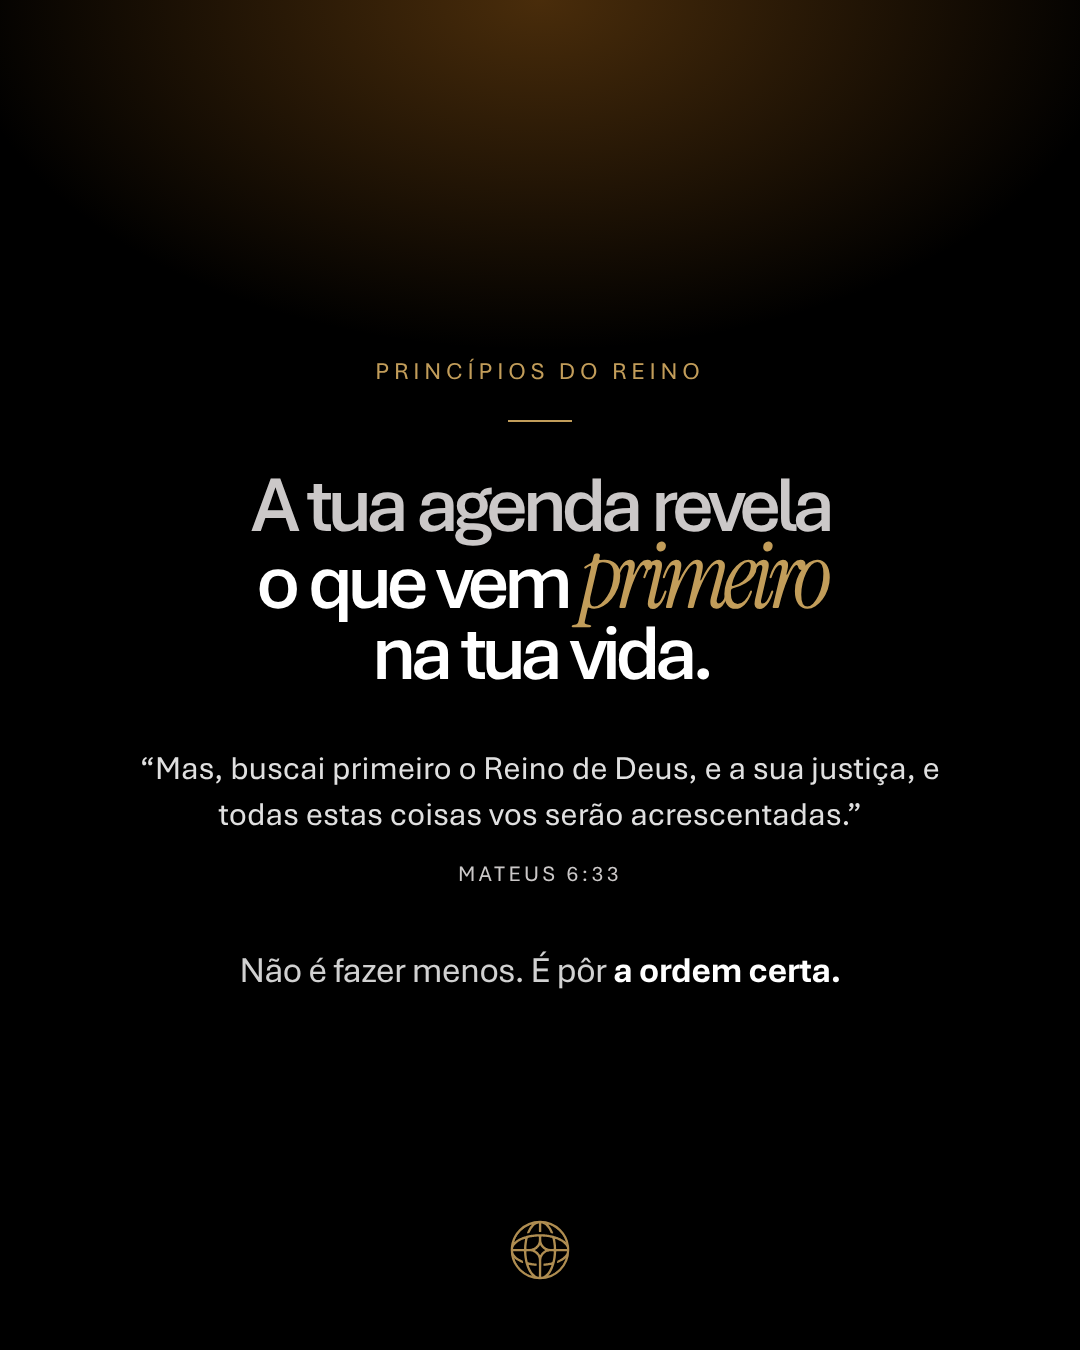
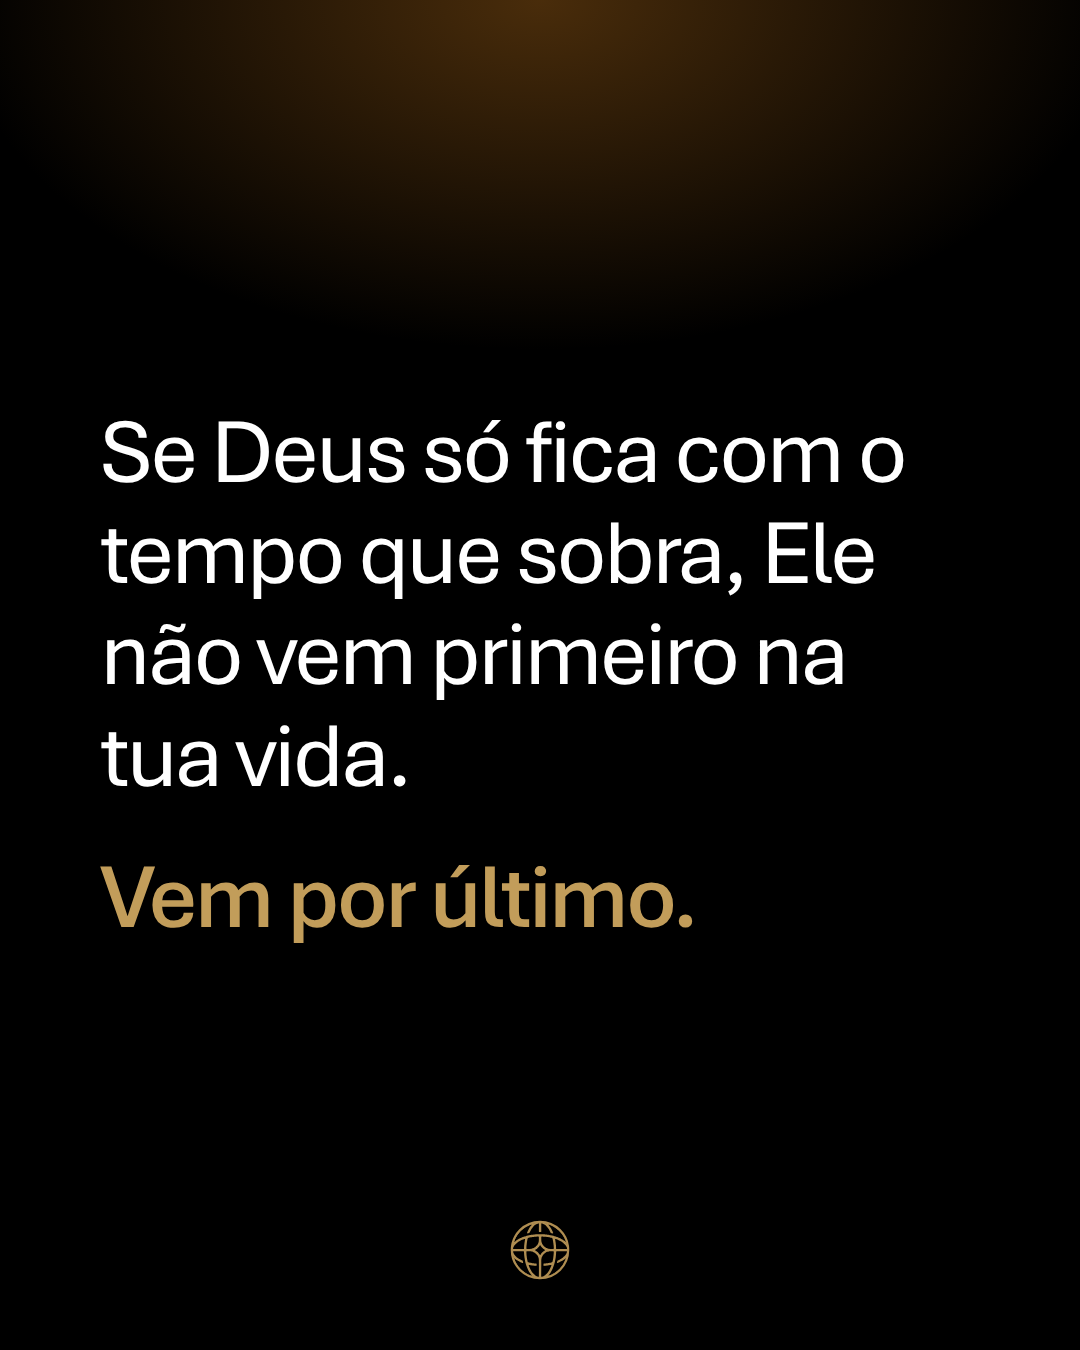
21/10: estático de frase única; regra e referências de frases na marca
Claude-Session: https://claude.ai/code/session_01RgmbLLVHoJT5B4GNygU6zs

diff --git a/content/founders/semana-01/index.html b/content/founders/semana-01/index.html
@@ -59,6 +59,9 @@ body{ background:#2a2a2a; display:flex; flex-wrap:wrap; gap:40px; padding:40px; 
 .save svg{ width:28px; height:28px; }
 .handle.c{ left:0; right:0; text-align:center; }
 
+/* Estático de frase única (sem etiqueta, sem versículo na arte) */
+.frase{ position:absolute; left:100px; right:100px; top:0; bottom:0; display:flex; align-items:center; font-size:92px; line-height:1.1; letter-spacing:-0.035em; font-weight:400; color:var(--white); }
+.frase b{ display:block; margin-top:40px; font-weight:600; color:var(--gold); }
 /* Estático Princípios do Reino */
 .reino{ position:absolute; left:110px; right:110px; top:0; bottom:0; display:flex; flex-direction:column; justify-content:center; align-items:center; text-align:center; }
 .label{ font-size:24px; letter-spacing:.2em; text-transform:uppercase; color:var(--gold); }
@@ -193,14 +196,7 @@ body{ background:#2a2a2a; display:flex; flex-wrap:wrap; gap:40px; padding:40px; 
 <!-- ============ 21/10 · Estático · Princípios do Reino ============ -->
 <section class="post" data-file="2026-10-21-buscai-primeiro-o-reino/01.png">
   <div class="glow"></div>
-  <div class="reino">
-    <div class="label">Princípios do Reino</div>
-    <div class="rule"></div>
-    <div class="ttl" style="--ts:80px"><div class="t1">A tua agenda revela</div><div>o que vem <span class="it">primeiro</span></div><div>na tua vida.</div></div>
-    <p class="verse2">“Mas, buscai primeiro o Reino de Deus, e a sua justiça, e todas estas coisas vos serão acrescentadas.”</p>
-    <p class="ref2">Mateus 6:33</p>
-    <p class="apply">Não é fazer menos. É pôr <b>a ordem certa.</b></p>
-  </div>
+  <div class="frase"><p>Se Deus só fica com o tempo que sobra, Ele não vem primeiro na tua vida. <b>Vem por último.</b></p></div>
   <img class="sym" src="../../brand/founders/assets/kingdom-founders-simbolo.svg" alt="">
 </section>
 

diff --git a/.claude/skills/kingdom-founders/SKILL.md b/.claude/skills/kingdom-founders/SKILL.md
@@ -61,6 +61,7 @@ Aprovada pelo utilizador a 14/10/2026. É a fonte de verdade para tudo o que se 
   - **C Cartão claro:** fundo branco, Aptos Regular caixa alta + destaque Aptos Black (`.card-c`), à esquerda, botão dourado. Para ganchos diretos sem foto.
 - Post 1080×1350: margens laterais 90 px, número centrado a 92 px do topo, foto nos primeiros 1060 px com rosto no terço superior, texto a partir de 55% da altura até 240 px do fundo, máx. 45 palavras por slide. Caixa alta só no estilo C, chamada e etiquetas.
 - **Capa com foto (padrão aprovado a 14/10/2026, capa de 19/10 "Quem sou eu?"):** foto nos primeiros 1060 px com o rosto no terço superior; título em **Aptos Bold** (700) a ~92 px, centrado, 3 linhas curtas; a primeira linha em Névoa e as outras em branco; **Instrument Serif itálico dourado na palavra-chave do gancho** (a que nomeia a dor ou a virada, ex.: "*problema*"), não necessariamente a última palavra; subtítulo de 2 a 3 linhas a 34 px logo por baixo (34 px de distância) com o laço aberto e o fim a branco semibold; título e subtítulo como um bloco, a 262 px do fundo; "ARRASTE PARA ENTENDER" a 84 px do fundo. Código de referência: `content/founders/semana-01/index.html`, slide `2026-10-19-quem-sou-eu/01.png`.
+- **Estático de frase única (regra do utilizador, 14/10/2026; aplica-se a Princípios do Reino e a estáticos de frase):** a arte tem **uma só frase**, sem etiqueta ("Princípios do Reino" sai), sem título + versículo + aplicação. Estilo das referências em `content/brand/founders/referencias-frases/` (01 a 04): afirmação direta e provocadora, em frase corrida, 1 a 3 frases curtas, até ~25 palavras, que contraria o que o leitor pensa e fecha com uma viragem ("Vem por último."). Design: fundo preto com luz âmbar no topo, Aptos Regular branco a ~92 px alinhado à esquerda, a frase final numa linha própria em Aptos SemiBold dourado, símbolo pequeno em baixo. O versículo e a referência passam para a legenda. Exemplo aprovado: 21/10 "Se Deus só fica com o tempo que sobra, Ele não vem primeiro na tua vida. Vem por último."
 - **Nunca usar fotos que o utilizador não enviou para o post** (nem as do site): deixar placeholder (`.ph` com a descrição da foto pretendida) até ele as enviar.
 - Fotografia: pessoas reais das sessões, ambiente escuro, luz âmbar, olhar fora da câmara. Nunca banco de imagens nem texto sobre rostos.
 
@@ -80,7 +81,7 @@ Referências do utilizador em `content/brand/founders/referencias-imagem/` (01 c
 
 - 6 publicações/semana. A equipa (Claude) produz **seg, qua, sex**: semana ímpar Carrossel-Estático-Carrossel, semana par Estático-Carrossel-Estático. Os **3 Reels** são do Shelton: deixar os dias vazios, não criar linhas nem copy para eles.
 - Funil sempre **40% topo / 40% meio / 20% fundo** (em cada 10: 4/4/2). Topo = alcance; meio = autoridade, educativo denso; fundo = conversão para a aplicação.
-- Séries fixas: Bloqueios Invisíveis (DP, meio, carrossel A), Princípios do Reino (Esp, topo, estático A), Prosperidade com Princípios (Esp, meio, carrossel B), Mentalidade de Governo (Neg, meio, carrossel B), Verdade Incómoda (topo, estático C), Dentro da Founders (fundo).
+- Séries fixas: Bloqueios Invisíveis (DP, meio, carrossel A), Princípios do Reino (Esp, topo, estático de frase única), Prosperidade com Princípios (Esp, meio, carrossel B), Mentalidade de Governo (Neg, meio, carrossel B), Verdade Incómoda (topo, estático C), Dentro da Founders (fundo).
 - Versículos: Almeida Revista e Corrigida, com referência. Depoimentos só reais e autorizados.
 
 ## Notas de séries
@@ -139,6 +140,7 @@ Tirado dos carrosséis "Decidi acabar com a mentoria Kingdom Founders do jeito q
 
 | Data | Versão | Mudança |
 |---|---|---|
+| 14/10/2026 | 1.17 | Estáticos de frase única: sem etiqueta, uma só frase provocadora, versículo na legenda (referências em referencias-frases). |
 | 14/10/2026 | 1.16 | Padrão da capa com foto: título Aptos Bold ~92 px, Instrument Serif na palavra-chave, bloco título+subtítulo a 262 px do fundo. |
 | 14/10/2026 | 1.15 | Carrosséis com 10 slides: texto dividido (25 a 50 palavras por slide) com pontes novas; corpo 42 px. Modelo de meio de funil atualizado. |
 | 14/10/2026 | 1.14 | Sem Drive para imagens: ChatGPT gera e avisa, utilizador envia ao Claude, PNG finais entregues no chat. |
